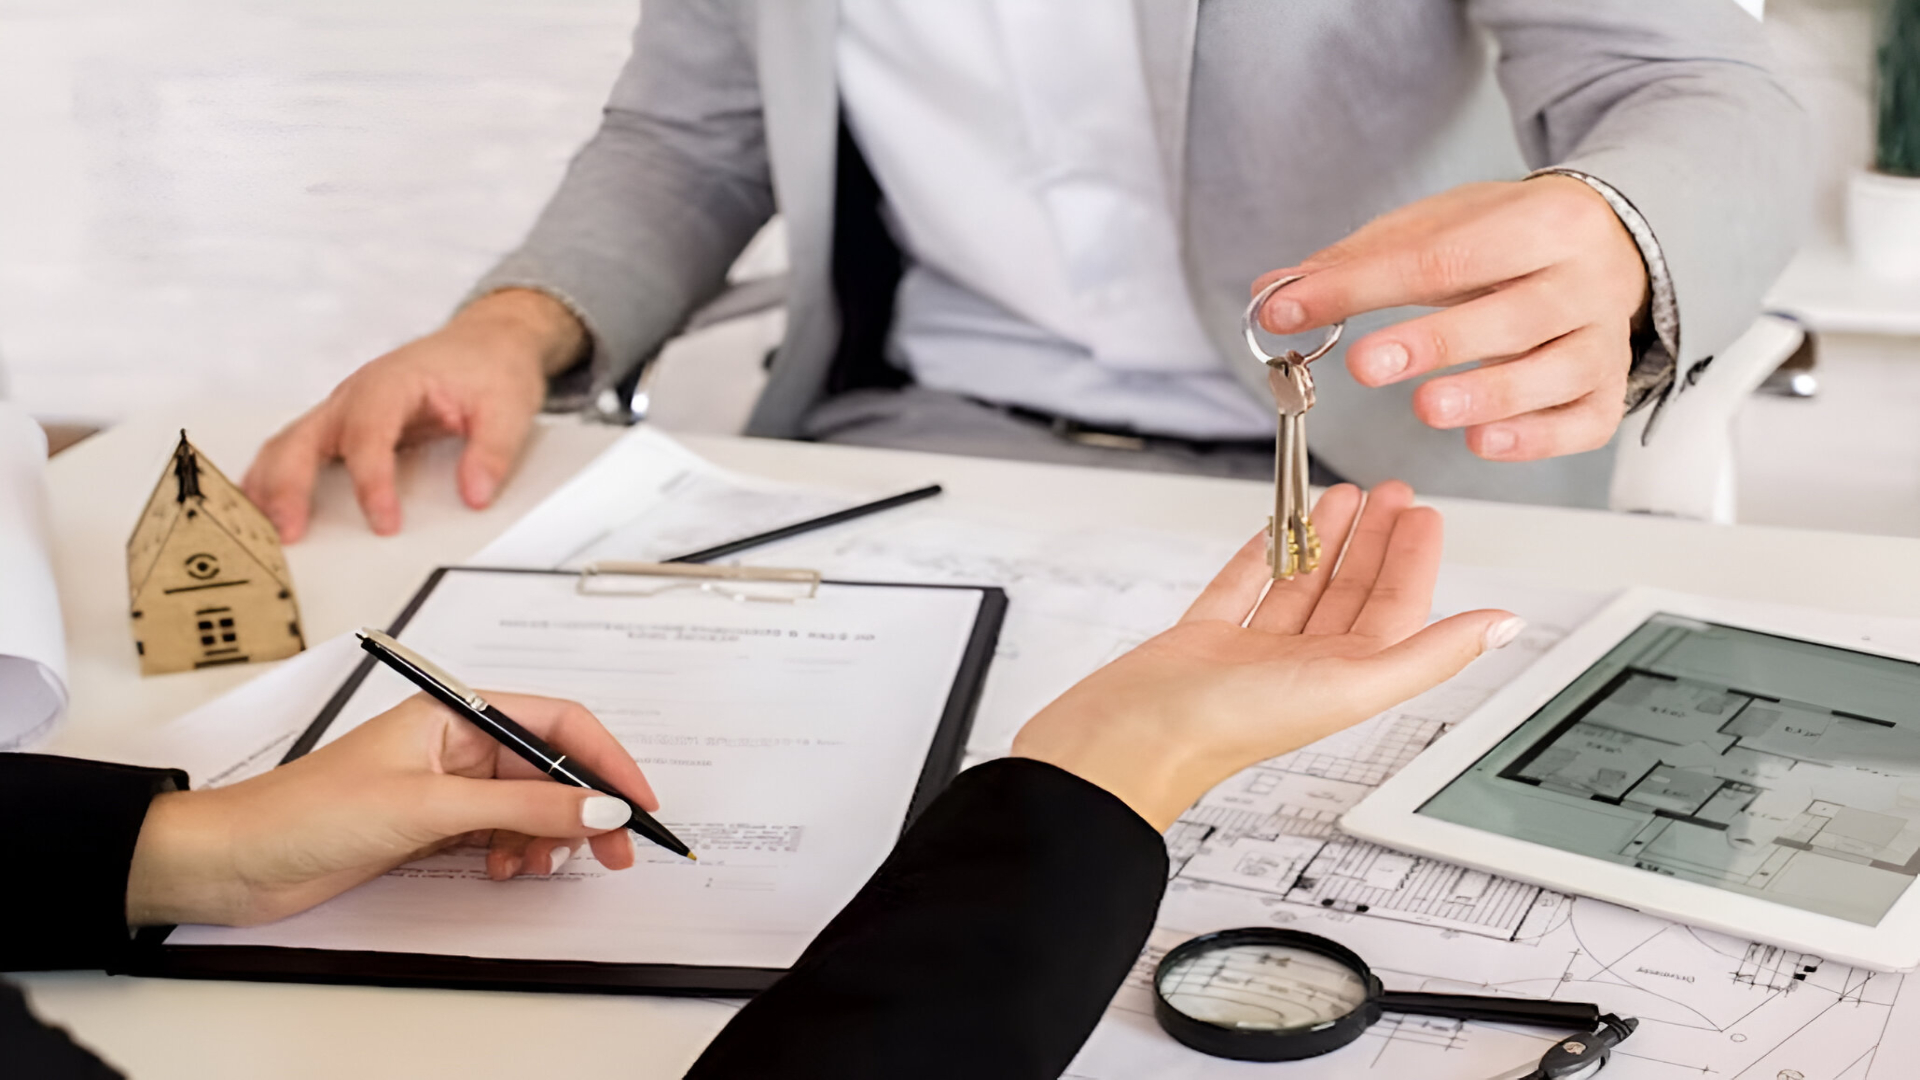
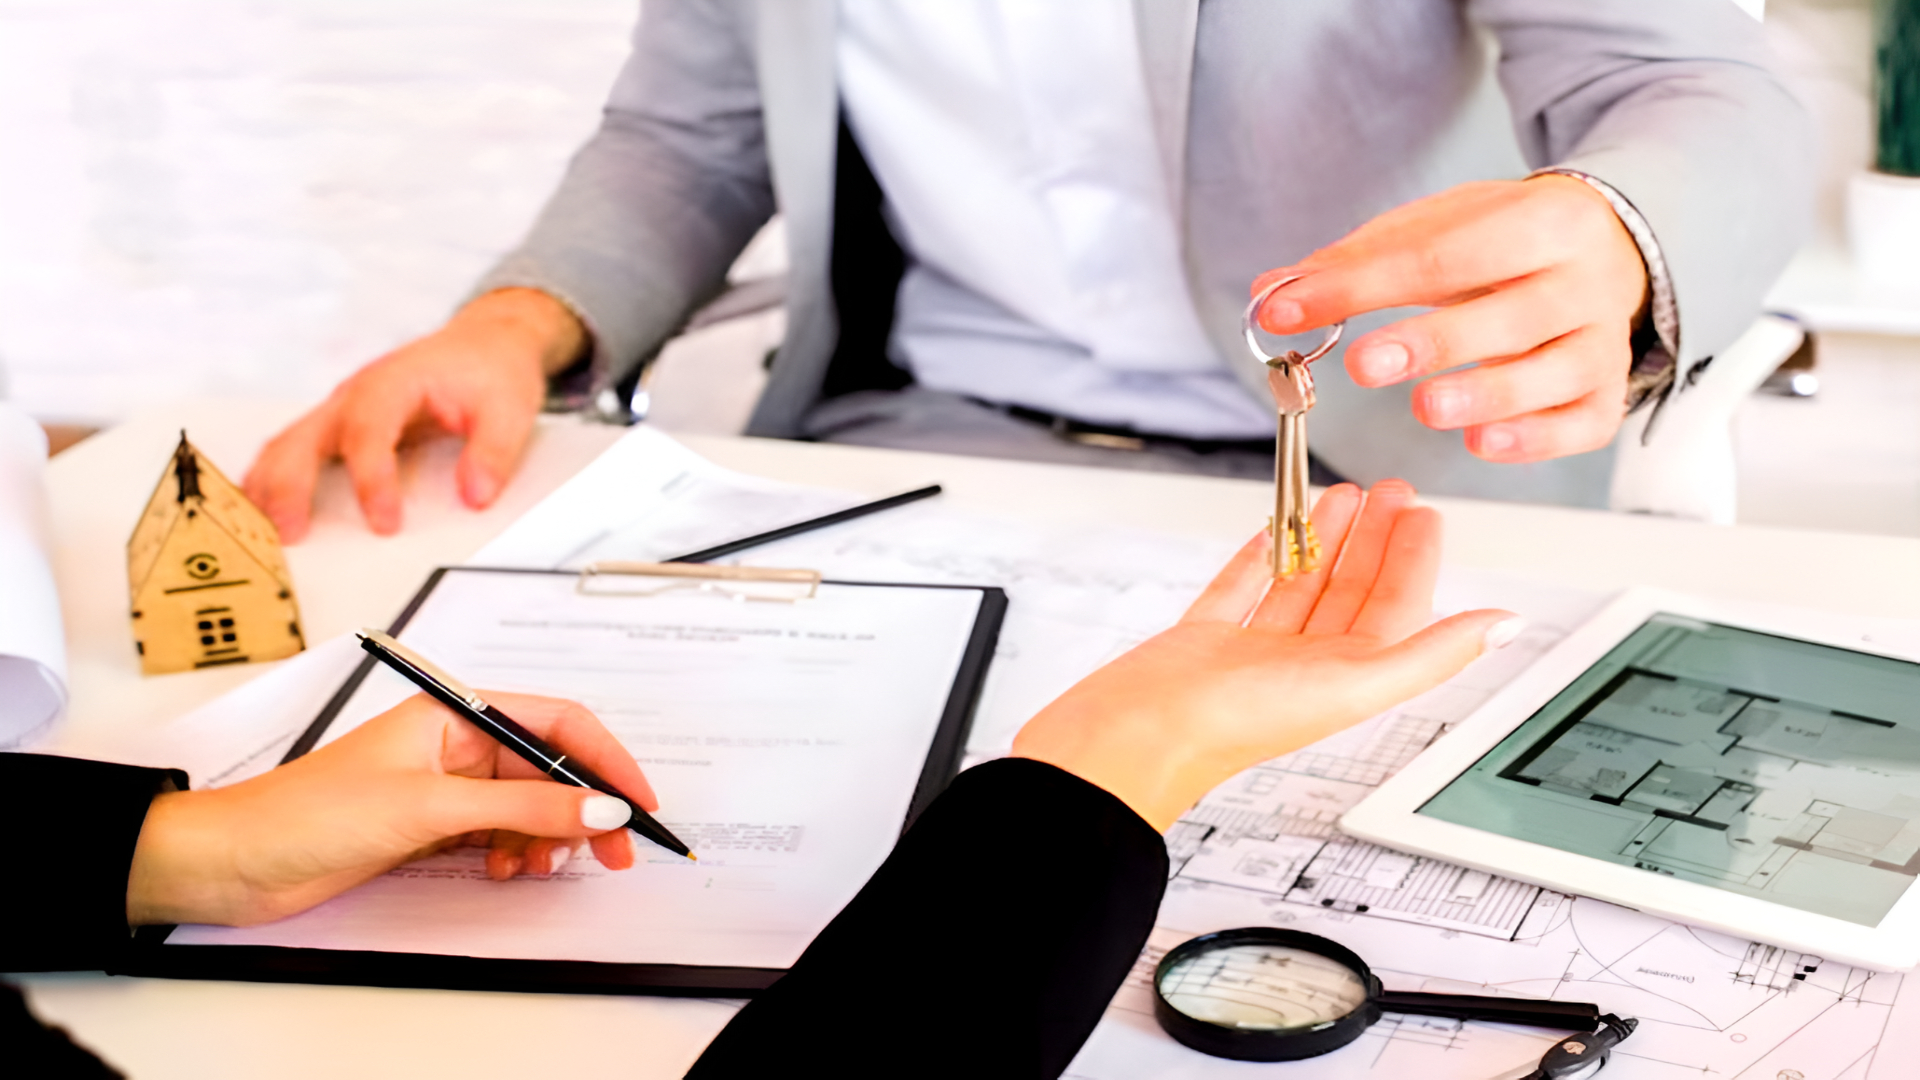
slide image brightness changed

diff --git a/docs/assets/css/style.css b/docs/assets/css/style.css
@@ -1588,11 +1588,11 @@ section {
 
 .carou
 {
-    filter: brightness(230%);
-    -webkit-filter: brightness(230%);
-    -moz-filter: brightness(230%);
-    -o-filter: brightness(230%);
-    -ms-filter: brightness(230%);
+    filter: brightness(200%);
+    -webkit-filter: brightness(200%);
+    -moz-filter: brightness(200%);
+    -o-filter: brightness(200%);
+    -ms-filter: brightness(200%);
 }
 
 /*.div-for-p
